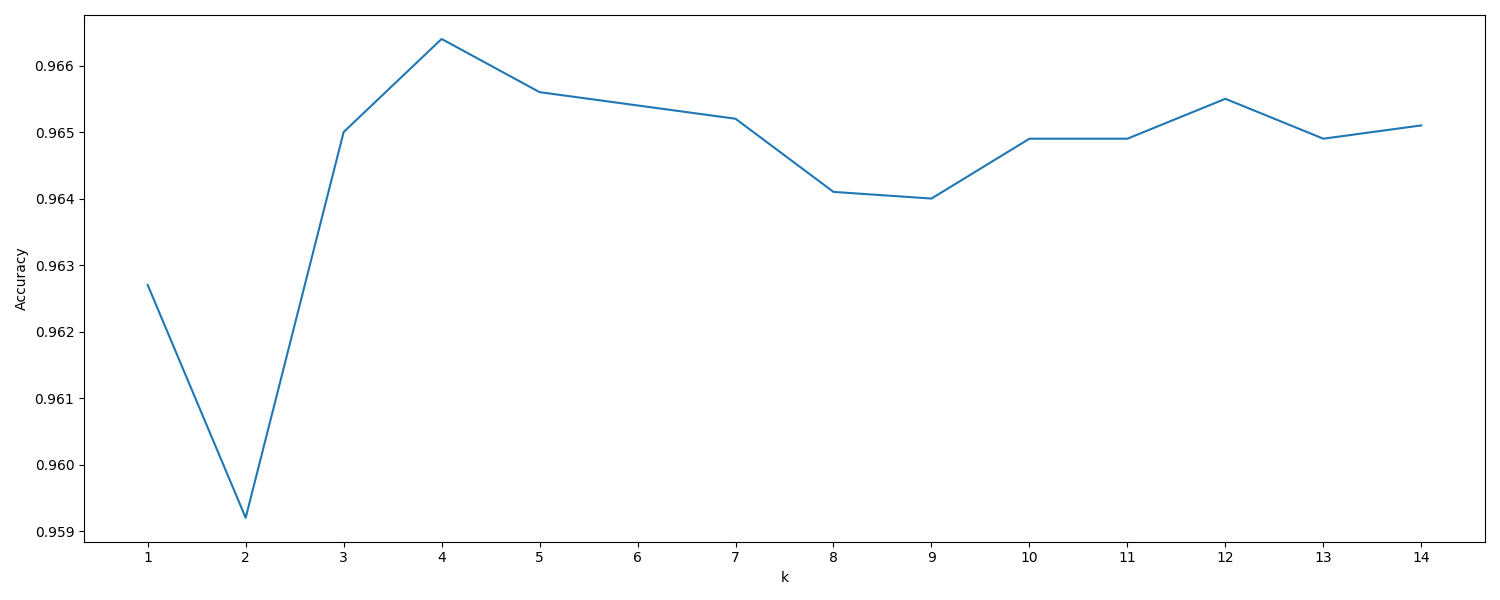
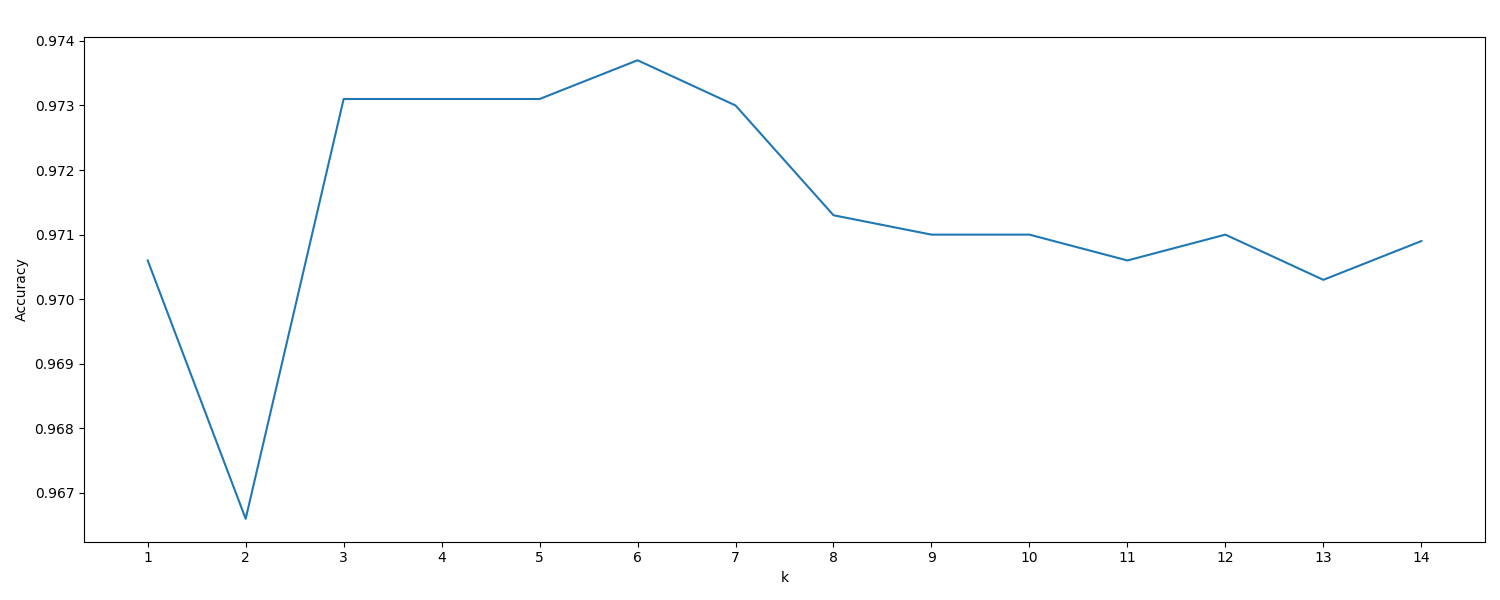
minor changes:

diff --git a/report/part-2/content/content.tex b/report/part-2/content/content.tex
@@ -44,22 +44,24 @@ However, not all this dimensions contain relevant information for classifying.
 \begin{table}[H]
     \centering
     \begin{tabular}{llllllllllll}
+
         Predicted & 0 & 1  & 2 & 3  & 4  & 5 & 6  & 7  & 8 & 9  & All \\
-        Actual \\
-        0      & 972 & 1    & 2    & 0    & 1   & 1   & 1   & 1    & 1   & 0   & 980   \\
-        1      & 0   & 1128 & 3    & 1    & 0   & 0   & 1   & 0    & 1   & 1   & 1135  \\
-        2      & 5   & 3    & 1006 & 0    & 0   & 2   & 0   & 13   & 3   & 0   & 1032  \\
-        3      & 0   & 1    & 9    & 963  & 0   & 13  & 0   & 9    & 14  & 1   & 1010  \\
-        4      & 0   & 0    & 0    & 0    & 957 & 0   & 3   & 0    & 0   & 22  & 982   \\
-        5      & 5   & 2    & 2    & 13   & 0   & 861 & 4   & 1    & 1   & 3   & 892   \\
-        6      & 6   & 4    & 1    & 0    & 3   & 4   & 939 & 1    & 0   & 0   & 958   \\
-        7      & 0   & 18   & 10   & 0    & 4   & 0   & 1   & 980  & 0   & 15  & 1028  \\
-        8      & 4   & 1    & 2    & 20   & 4   & 11  & 5   & 3    & 918 & 6   & 974   \\
-        9      & 2   & 5    & 4    & 7    & 25  & 10  & 1   & 8    & 7   & 940 & 1009  \\
-        All    & 994 & 1163 & 1039 & 1004 & 994 & 902 & 955 & 1016 & 945 & 988 & 10000
+        Actual &      &       &       &       &      &      &      &       &      &      &        \\
+        0      &  975 &     1 &     1 &     0 &    0 &    1 &    1 &     1 &    0 &    0 &    980 \\
+        1      &    0 &  1131 &     1 &     0 &    0 &    0 &    3 &     0 &    0 &    0 &   1135 \\
+        2      &    7 &     1 &  1003 &     0 &    1 &    0 &    3 &    11 &    6 &    0 &   1032 \\
+        3      &    0 &     2 &     4 &   973 &    0 &   13 &    0 &     6 &   10 &    2 &   1010 \\
+        4      &    0 &     0 &     0 &     0 &  960 &    0 &    4 &     2 &    0 &   16 &    982 \\
+        5      &    3 &     2 &     1 &     9 &    1 &  868 &    5 &     1 &    1 &    1 &    892 \\
+        6      &    4 &     4 &     0 &     0 &    3 &    0 &  947 &     0 &    0 &    0 &    958 \\
+        7      &    1 &    20 &    10 &     0 &    2 &    0 &    0 &   985 &    0 &   10 &   1028 \\
+        8      &    3 &     0 &     3 &    14 &    4 &    5 &    1 &     2 &  938 &    4 &    974 \\
+        9      &    4 &     3 &     3 &    10 &   14 &    6 &    1 &     7 &    4 &  957 &   1009 \\
+        All    &  997 &  1164 &  1026 &  1006 &  985 &  893 &  965 &  1015 &  959 &  990 &  10000 \\
+
     \end{tabular}
     \caption*{Confusion Matrix of kNN classifier with 4 neighbors\\
-    Accuracy: 96.64\%}
+    Accuracy: 97.37\%}
 \end{table}
 
 %\cite{watson_2020s}

diff --git a/mainn.py b/mainn.py
@@ -190,7 +190,7 @@ if __name__ == "__main__":
     train_images, train_labels = data_path.load_training()
     test_images, test_labels = data_path.load_testing()
 
-    n_components = 18
+    n_components = 25
     pcs = pca(train_images)
     train_pca = project_onto_PC(train_images, pcs, n_components)
     test_pca = project_onto_PC(test_images, pcs, n_components)
@@ -219,8 +219,9 @@ if __name__ == "__main__":
     #     final_accuracies[k] = prediction_accuracy(predicted_classes[k],
     #                                               test_labels)
 
-    k = 4
+    k = 6
 
+    # works fast but not allowed
     model = KNeighborsClassifier(n_neighbors=k)
     model.fit(train_pca, train_labels)
     preds = model.predict(test_pca)
@@ -231,19 +232,17 @@ if __name__ == "__main__":
 
 
     # works slow
-    # predicted_classes[k] = kNN_test(train_pca[:30000], test_pca,
+    # predicted_classes[k] = kNN_test(train_pca[:30000], test_pca[:100],
     #                                 train_labels[:30000],
-    #                                 test_labels, k)
+    #                                 test_labels[:100], k)
     # final_accuracies[k] = prediction_accuracy(predicted_classes[k],
-    #                                           test_labels)
+    #                                           test_labels[:100])
 
     plt.figure(figsize=(15, 6))
     plt.plot(list(final_accuracies.keys()), list(final_accuracies.values()))
     plt.xticks(list(final_accuracies.keys()))
     plt.xlabel("k")
     plt.ylabel("Accuracy")
-    plt.title(
-        "Plot of the prediction accuracy of KNN Classifier as a function of k (Number of Neighbours)")
     plt.show()
     max_accuracy_key = max(final_accuracies, key=final_accuracies.get)
     print("highest accuracy is hit with: " +
@@ -257,7 +256,7 @@ if __name__ == "__main__":
                                colnames=['Predicted'], margins=True)
 
     print(df_confusion)
-    plot_confusion_matrix(df_confusion)
+    df_confusion.to_latex('asd.tex')
 
 
 
